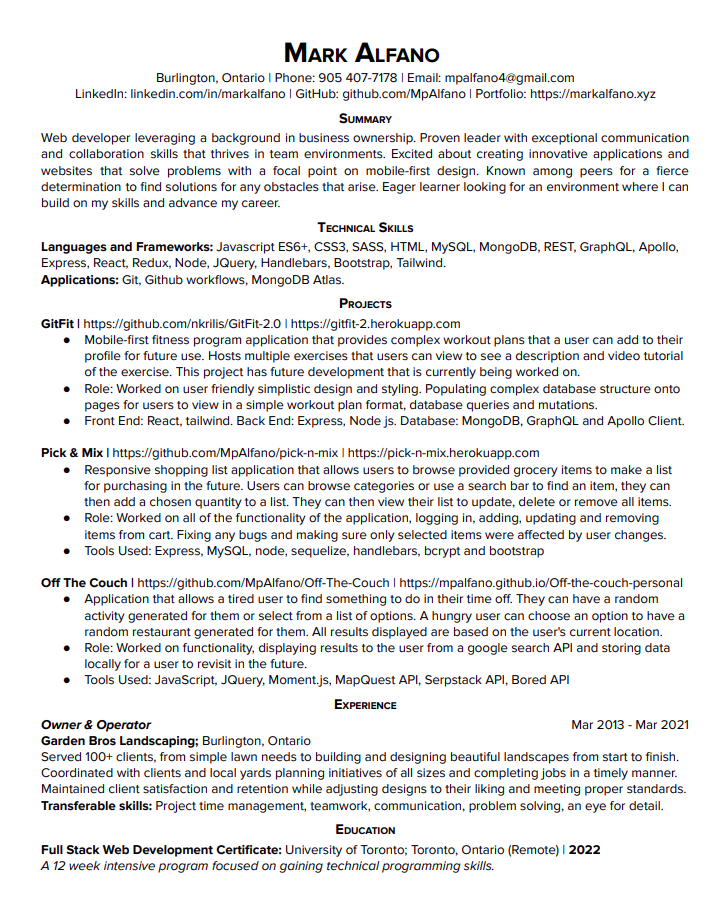
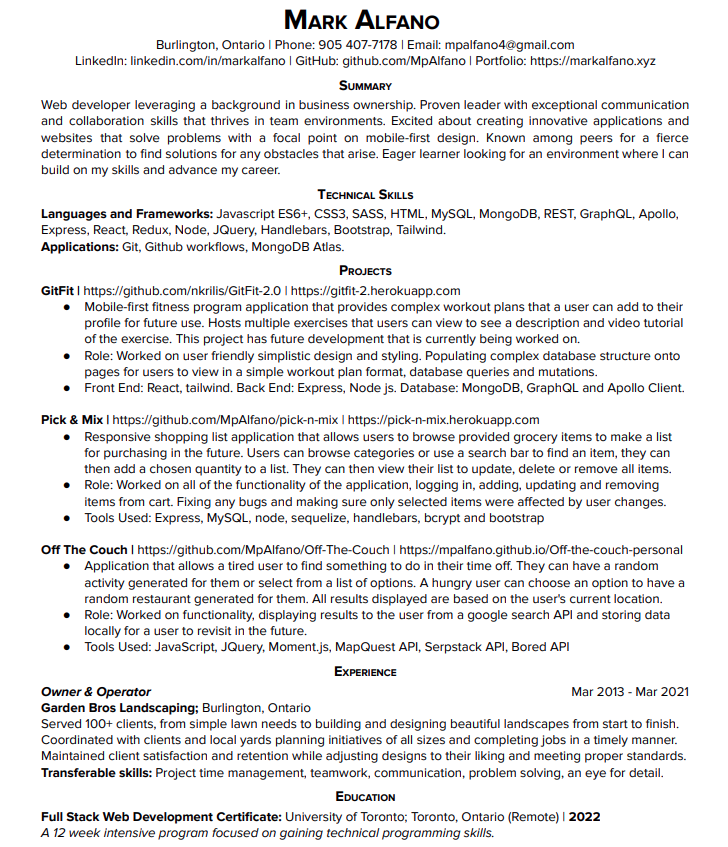
change to resume

diff --git a/src/components/pages/TestResume.js b/src/components/pages/TestResume.js
@@ -5,13 +5,16 @@ import resumeDL from "../documents/resume.pdf";
 
 export default function TestResume() {
   return (
-    <main className="h-fit sm:min-h-screen md:h-screen" id="resume">
-      <div className="mt-1 md:flex justify-center mx-auto px-2">
+    <main
+      className="grid content-center sm:h-fit sm:min-h-screen md:h-screen"
+      id="resume"
+    >
+      <div className="md:flex justify-center">
         <div className="md:flex">
-          <div className="flex-1 text-black text-center md:pl-20 py-5">
+          <div className="flex-1 text-black text-center md:pl-20 pt-4">
             <div className="relative">
               <img
-                className="object-fill w-full"
+                className="object-scale-down w-full"
                 src={resume}
                 alt="biography"
               ></img>

diff --git a/src/index.scss b/src/index.scss
@@ -381,10 +381,3 @@ animation: bounceInDown 3s 0s;
     clip-path: polygon(1 0, 100% 0, 100% 100%, 0 100%);
   }
 }
-
-@media only screen and (min-width: 1280px) {
-  .port {
-    margin-top: 10px
-  }
-
-}
